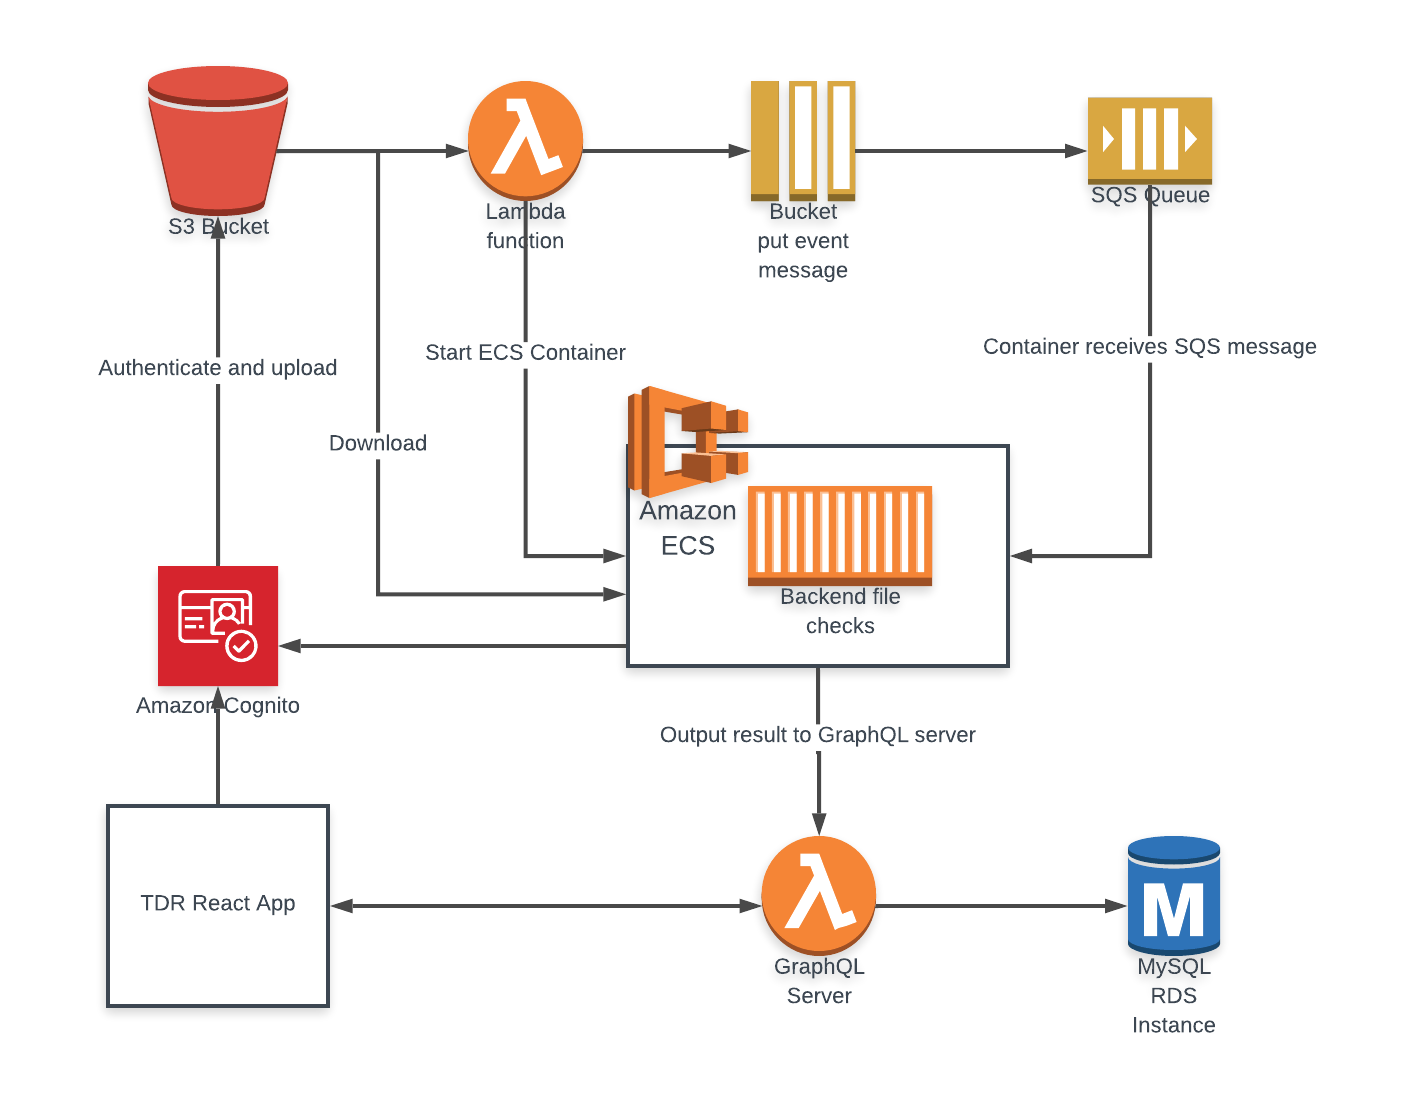
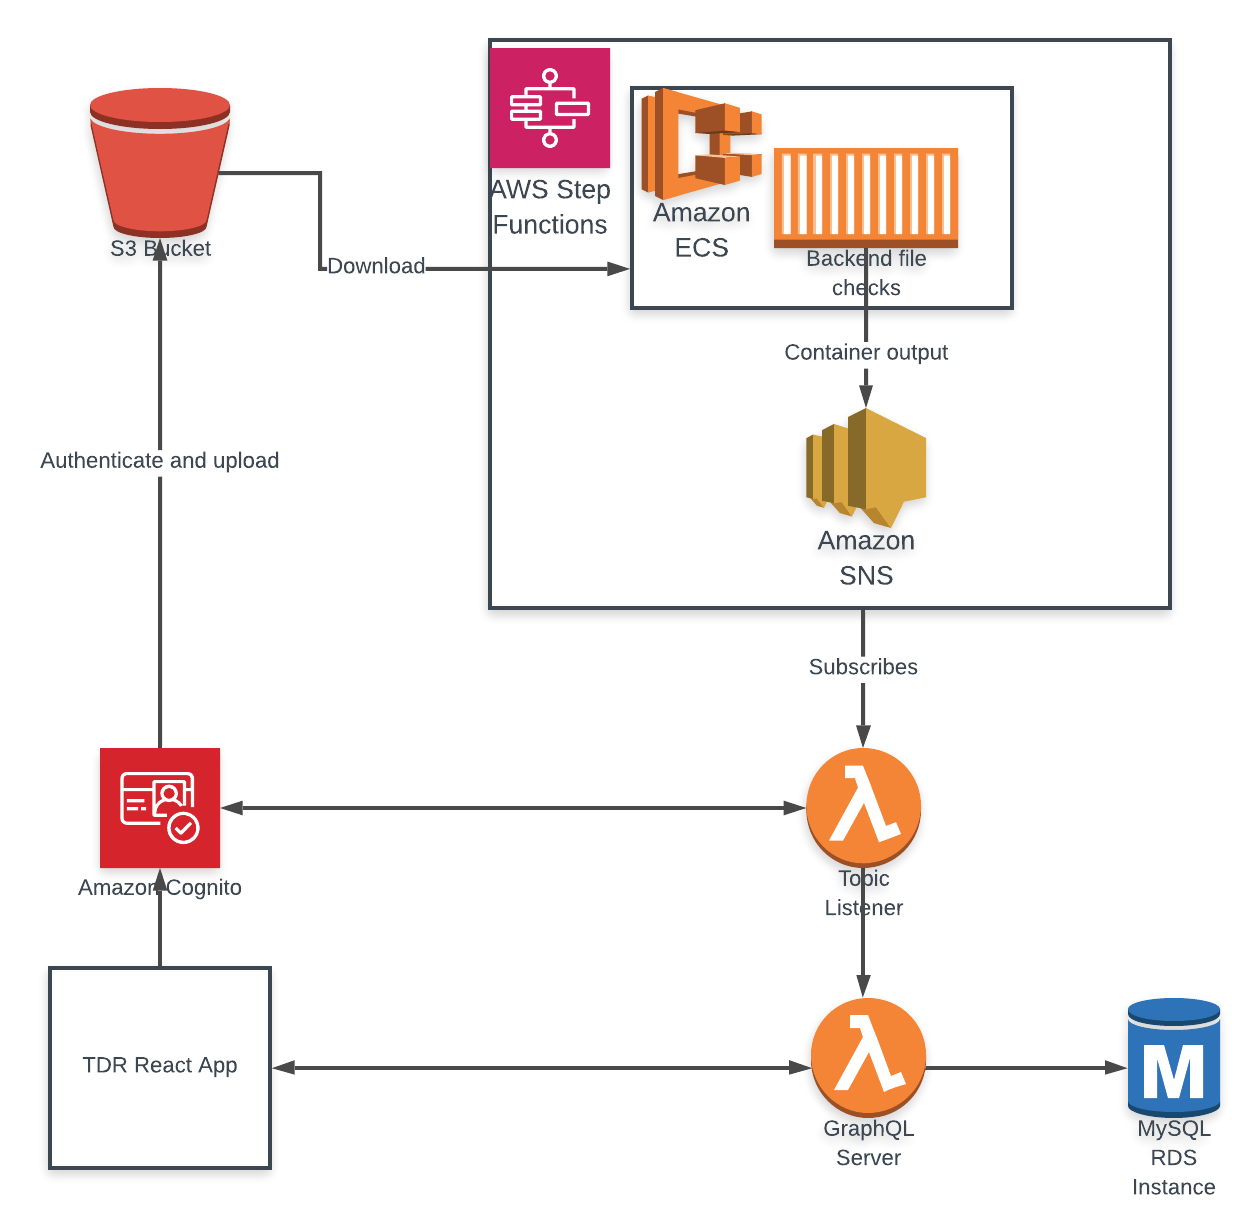
update readme file to show new architecture

Changed region(s): [[0.031, 0.0307, 0.9905, 1.0]]

diff --git a/README.md b/README.md
@@ -20,10 +20,8 @@ This is an overview of the project as a whole. The other components are
 2. This sends a mutation to the GraphQL server running as a lambda function which creates an entry in a table on the RDS database.
 3. The user then chooses which files to upload ([Upload.tsx](https://github.com/nationalarchives/tdr-front-end/blob/master/src/components/pages/Upload.tsx))
 4. This runs another mutation to store the files and some metadata in the RDS database. A temporary token is retrieved from the cognito user and used to upload the files to the S3 bucket.
-5. There is an event notification on the S3 bucket which will trigger a lambda when there is a put event. This [lambda](https://github.com/nationalarchives/tdr-aws/blob/master/tdr-run-tasks.py) does two things.
-
-   - Sends the put event to an SQS queue
-   - Starts a task defined in ECS
-
-6. This task runs three containers. One is a virus checking service, one is a file type checking service and the last is the code which runs the checks. This code picks up the message from the SQS queue, downloads the file using the client credentials flow through cognito and runs the checks against it. Once the checks are done, it updates the database, via the GraphQL lambda.
-7. The front end can then poll the rds datbase via the GraphQL lambda to display the results of the checks carried out by the ECS containers.
+5. There is an event notification on the S3 bucket which will trigger a step function.
+6. This step function runs three ECS tasks in parallel, one for the virus checker, one for the file format check and one for the checksum check. The containers are defined in this [repository](https://github.com/nationalarchives/prototype-state-machine)
+7. Once the tasks are run, the outputs are sent to separate SNS topics
+8. There is a lambda which subscribes to these topics, picks up the output and sends the results to the graphql server, which updates the database. The lambda is defined [here](https://github.com/nationalarchives/prototype-topic-listeners)
+9. The front end can then poll the rds datbase via the GraphQL lambda to display the results of the checks carried out by the ECS containers.
